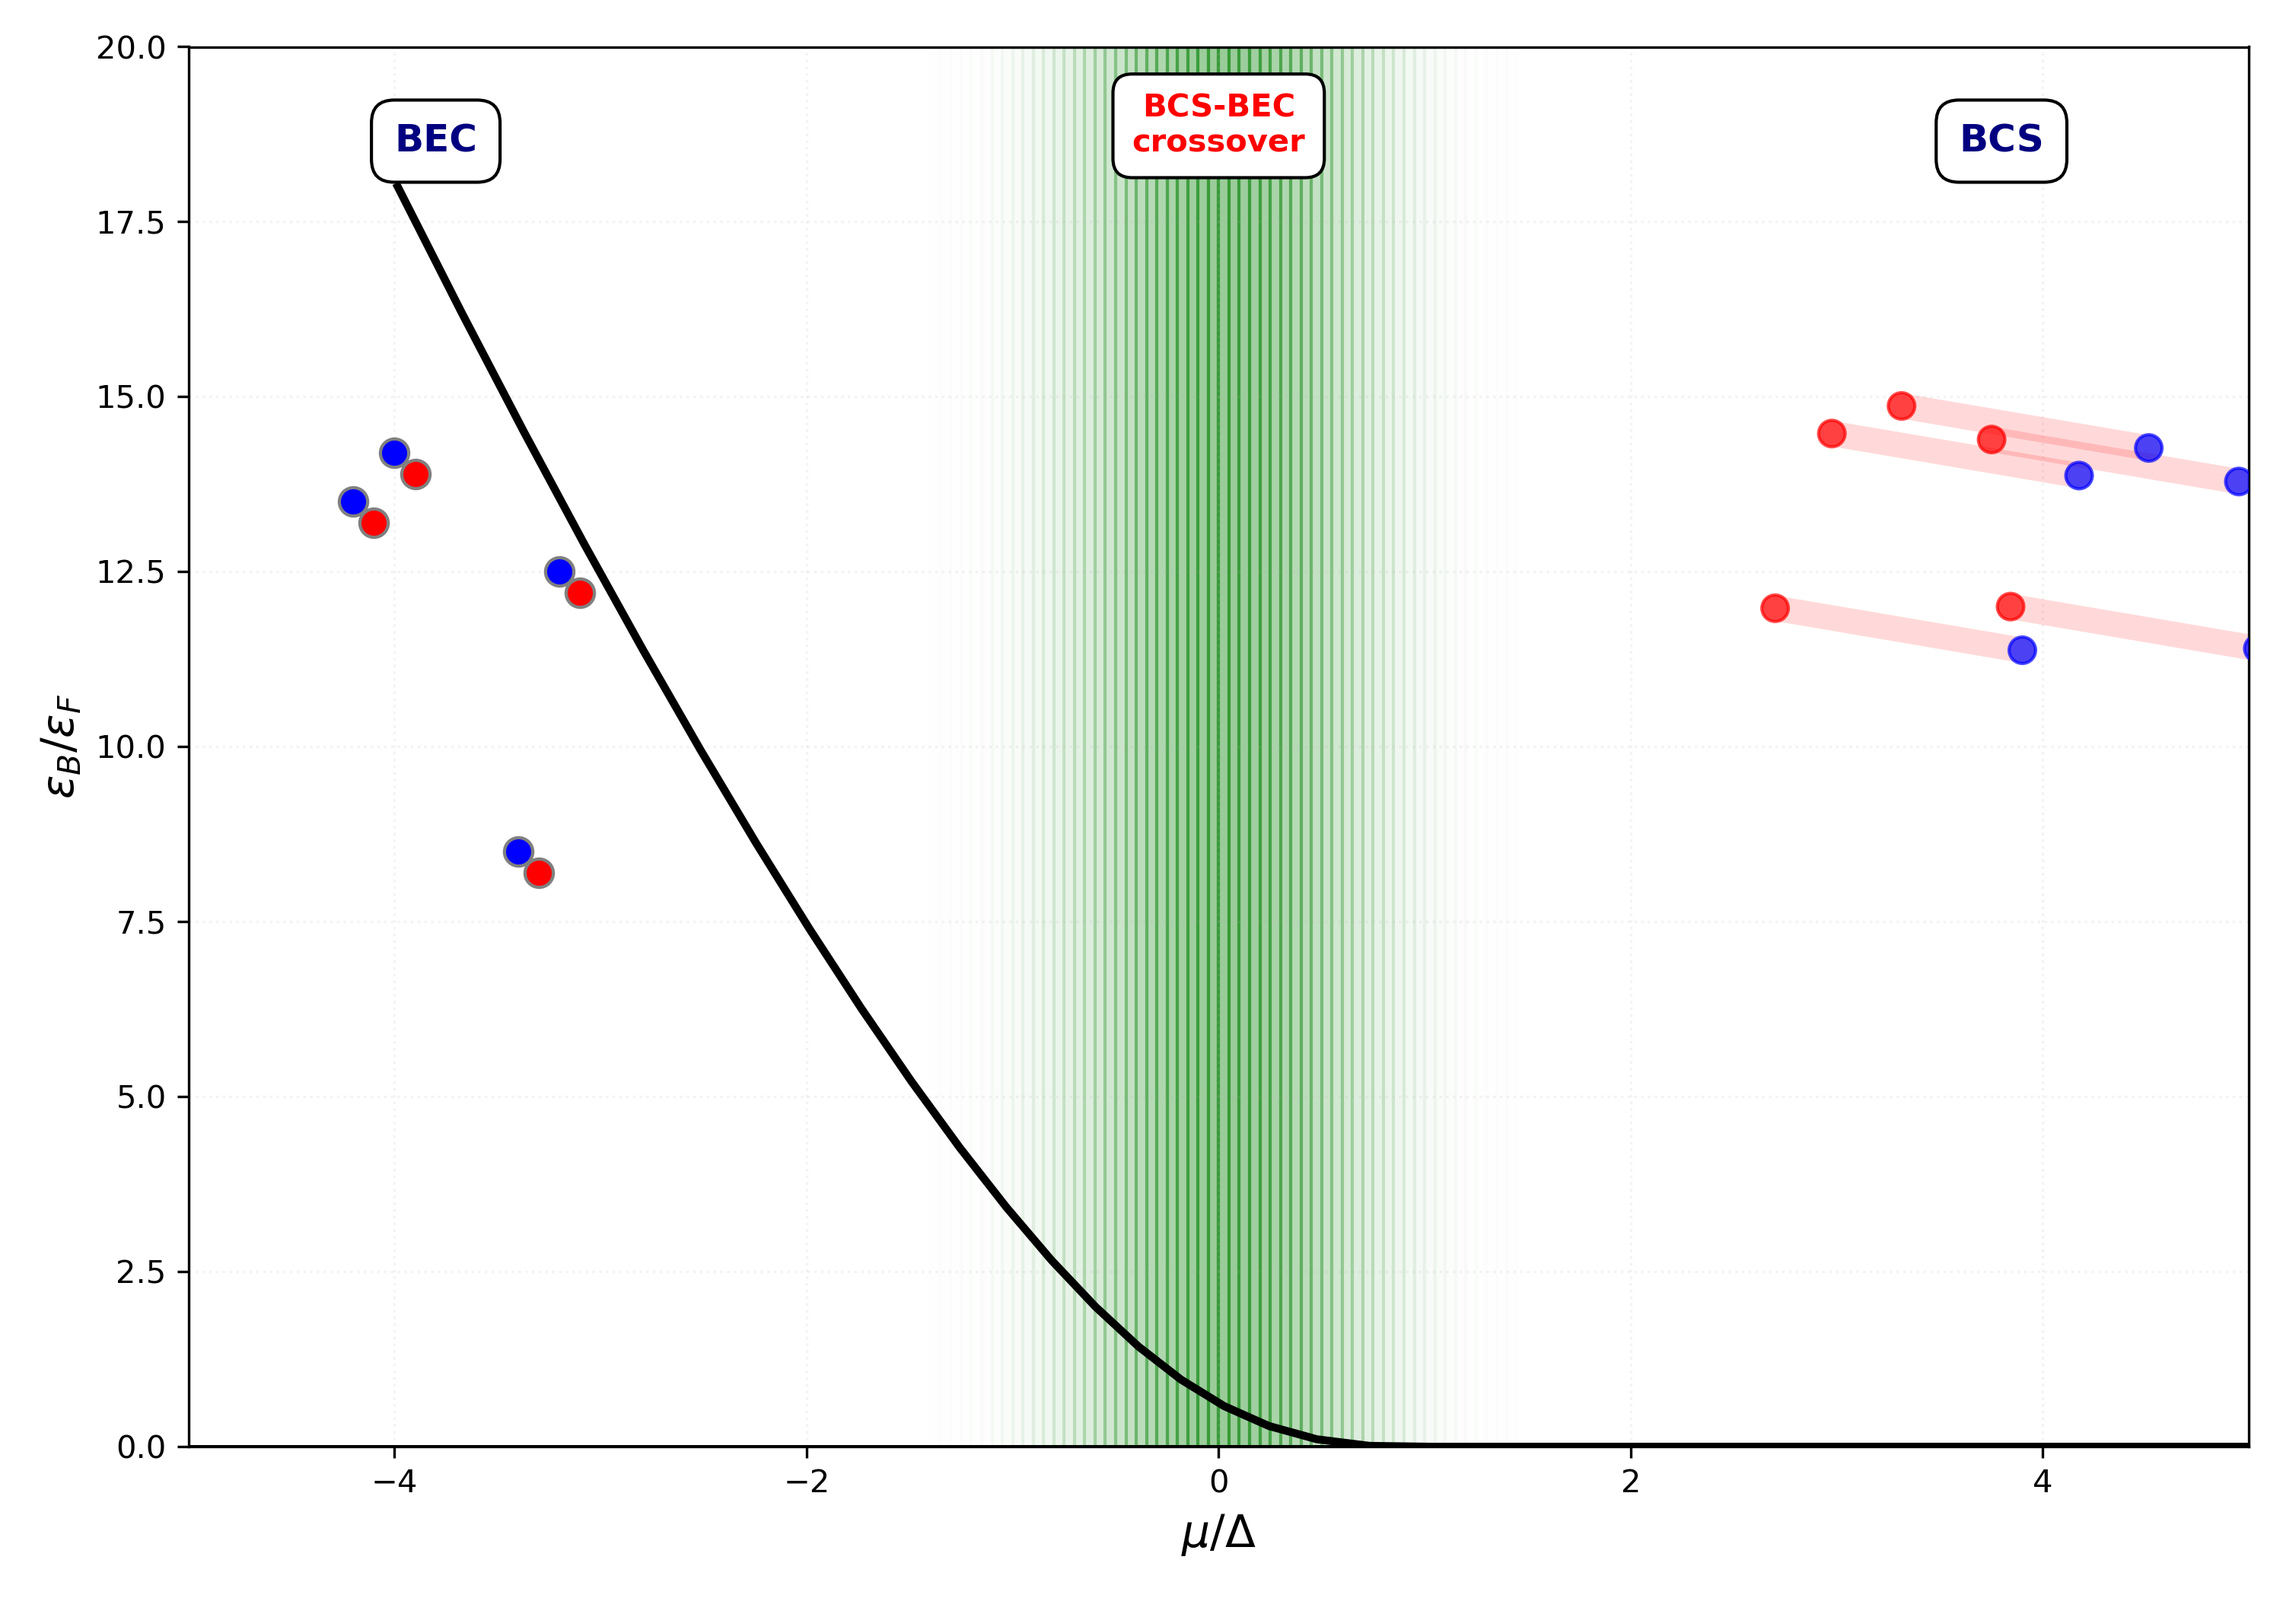
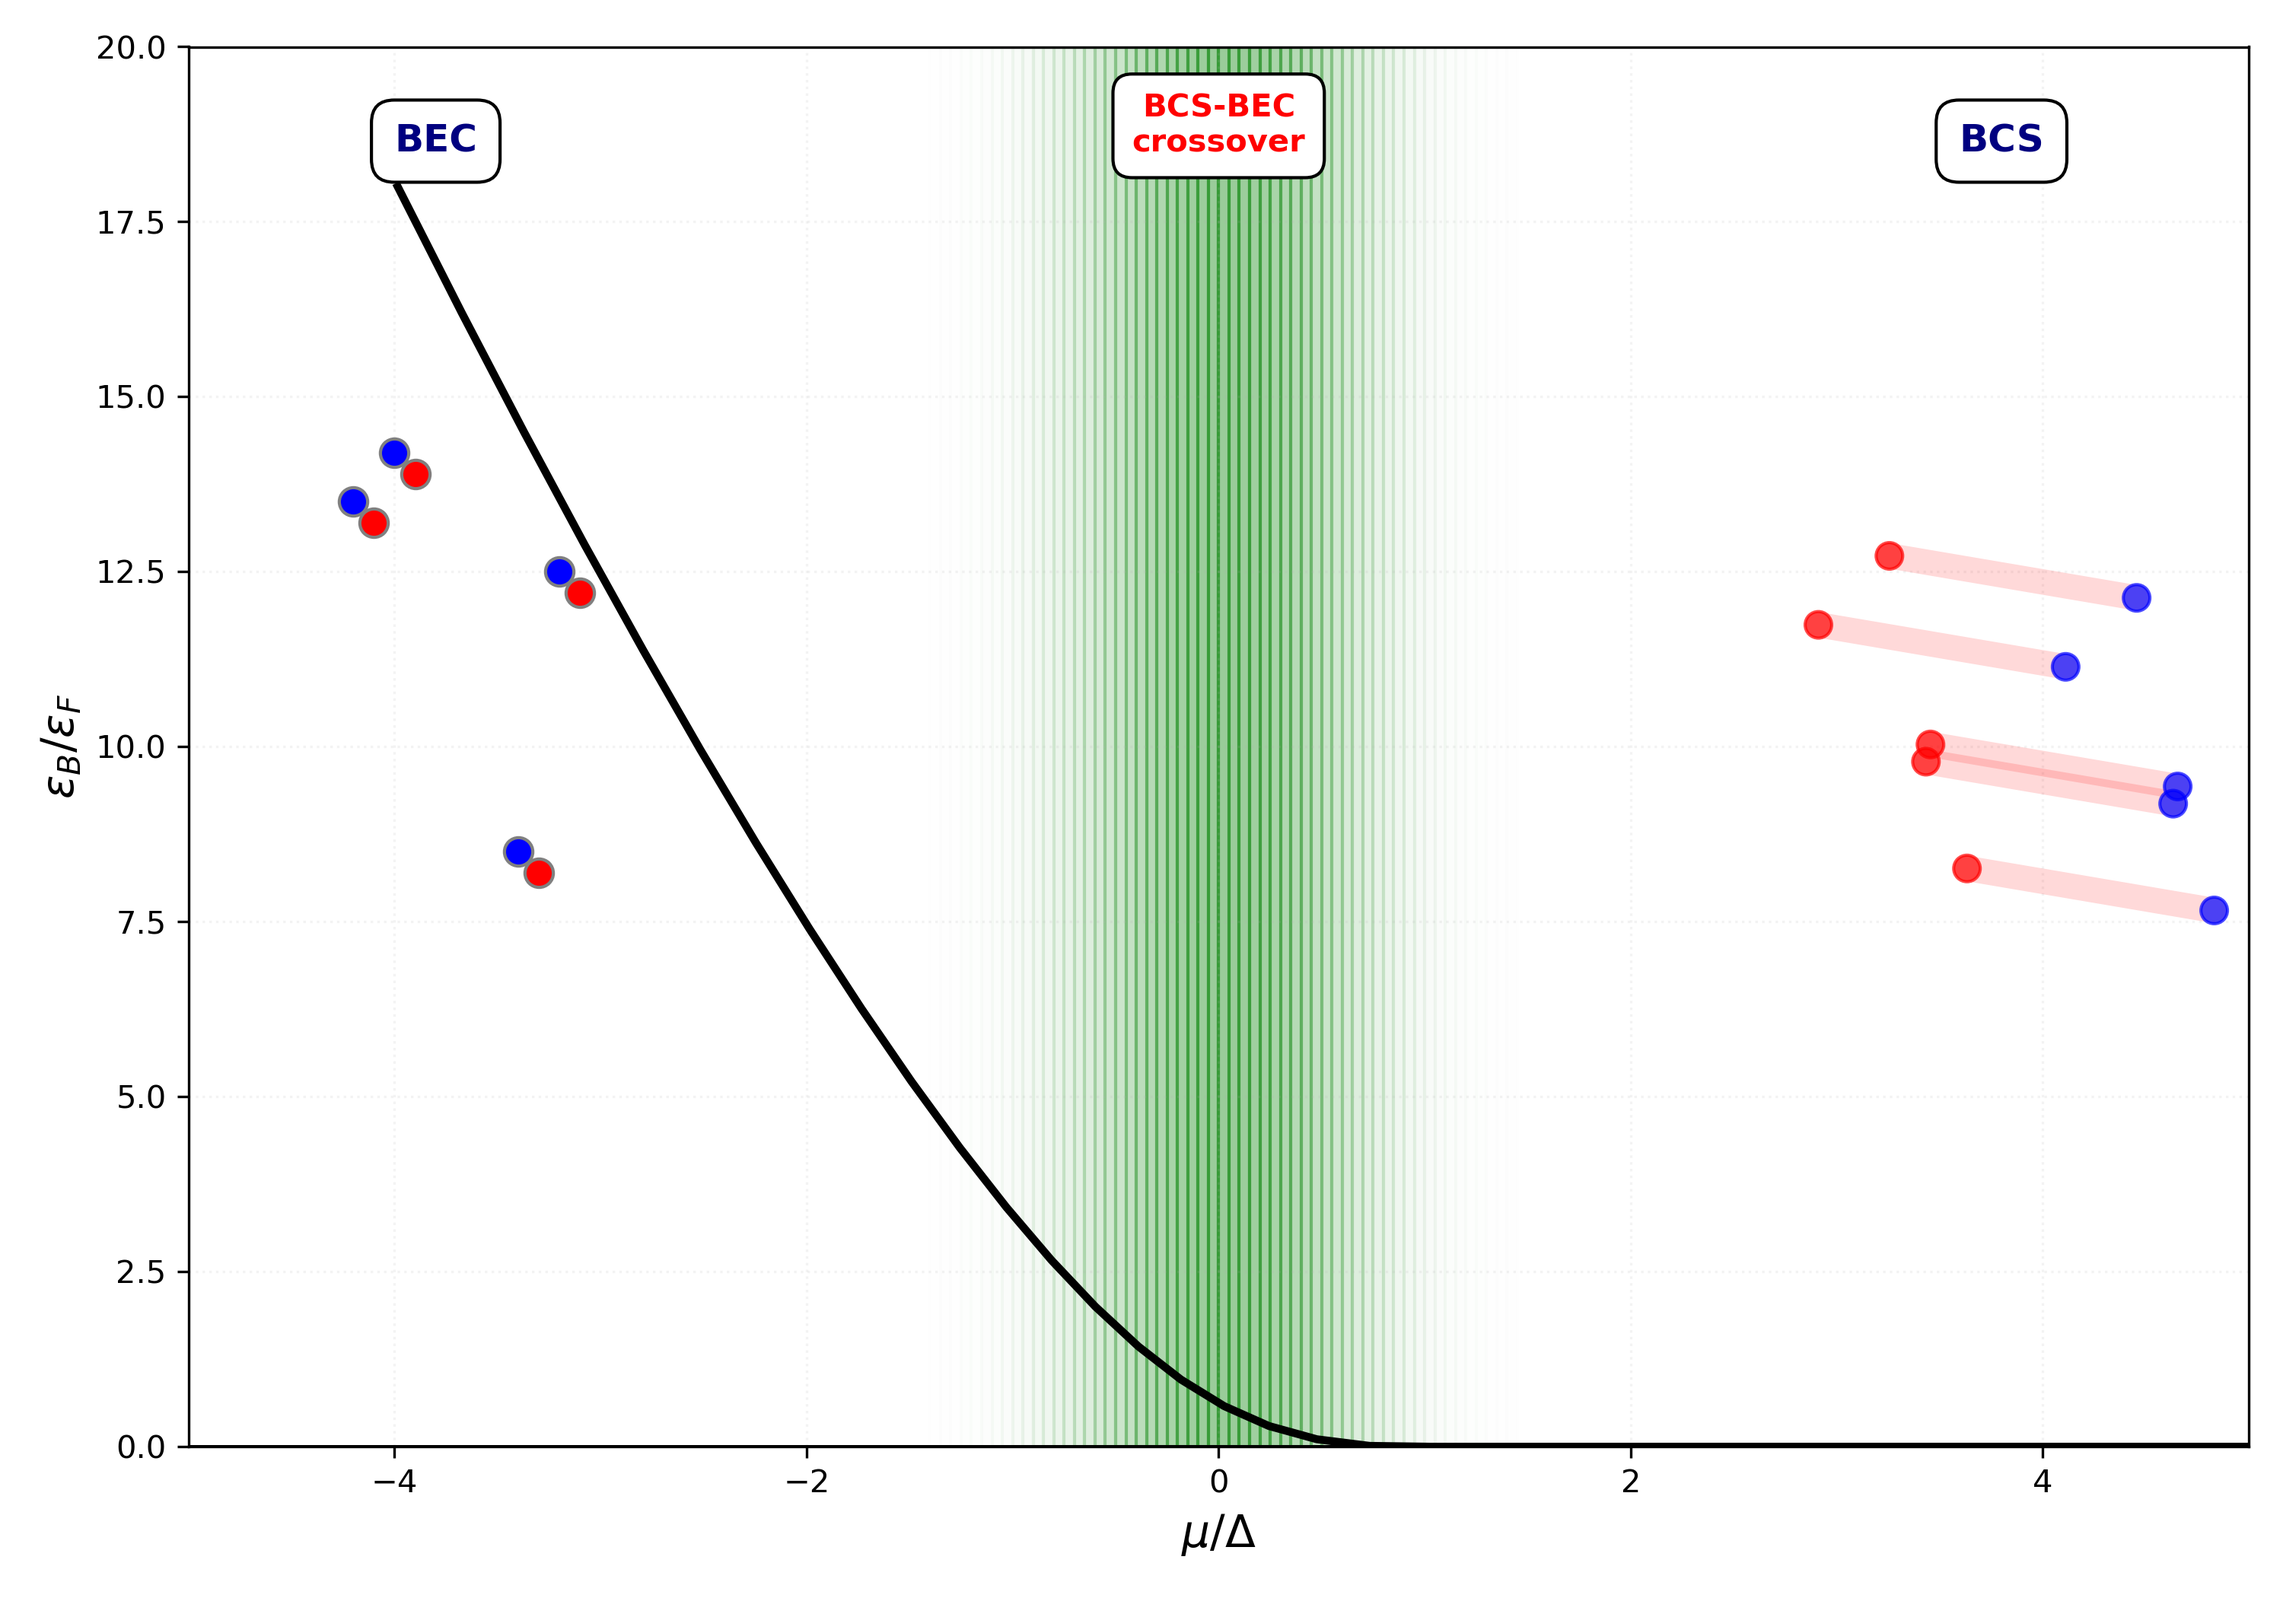
Added parameters int_min int_max and steps

Changed region(s): [[0.775, 0.3405, 0.992, 0.5881], [0.775, 0.2476, 0.992, 0.3095]]

diff --git a/main.py b/main.py
@@ -9,7 +9,7 @@ print("BEC–BCS project started")
 
 import numpy as np
 import os
-from src.config import k_max, N, n_target, EF
+from src.config import k_max, N, n_target, EF, int_min, int_max, steps
 from src.physics import create_k_grid
 from src.solver import solve_bcs_system
 from src.plotting import plot_bcs_bec_crossover
@@ -18,7 +18,7 @@ from src.plotting import plot_physical_regimes
 #1. SETUP
 # k_max and N are now taken from config.py
 k, dk = create_k_grid(k_max=k_max, N=N)
-interaction_range = np.linspace(-2.0, 2.0, 40)
+interaction_range = np.linspace(int_min, int_max, steps)
 
 # =============================================================================
 # 2. CROSSOVER SWEEP (ROOT-FINDING LOOP)

diff --git a/src/config.py b/src/config.py
@@ -28,3 +28,12 @@ EF = 0.5 * kF**2
 # Target density for a single spin species (n_tot / 2)
 # Formula: n = kF^3 / (6 * pi^2)
 n_target = kF**3 / (6.0 * np.pi**2)
+
+#Minimum of interaction range 1/kFa
+int_min=-3
+
+#Maximum of interaction range 1/kFa
+int_max=3
+
+#Number of points for the simulation(1/kFa steps)
+steps=40
